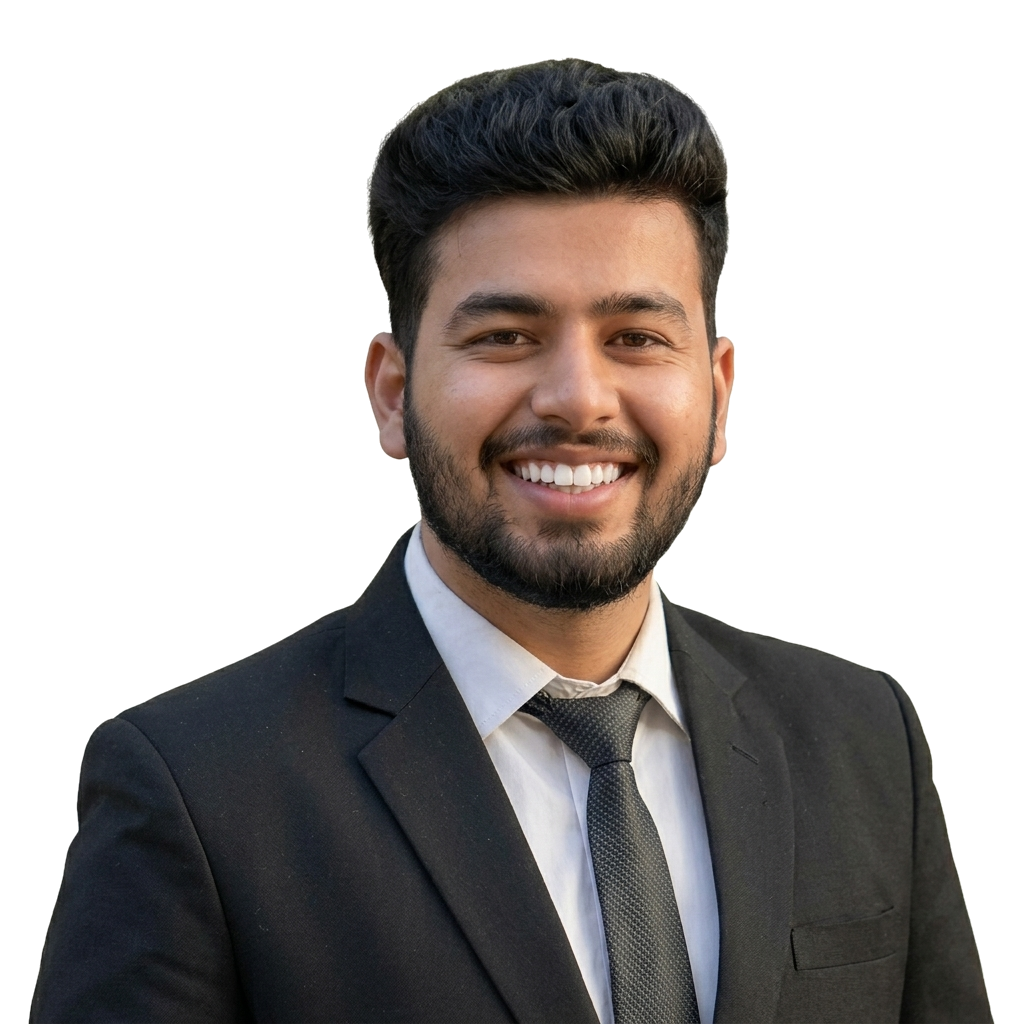
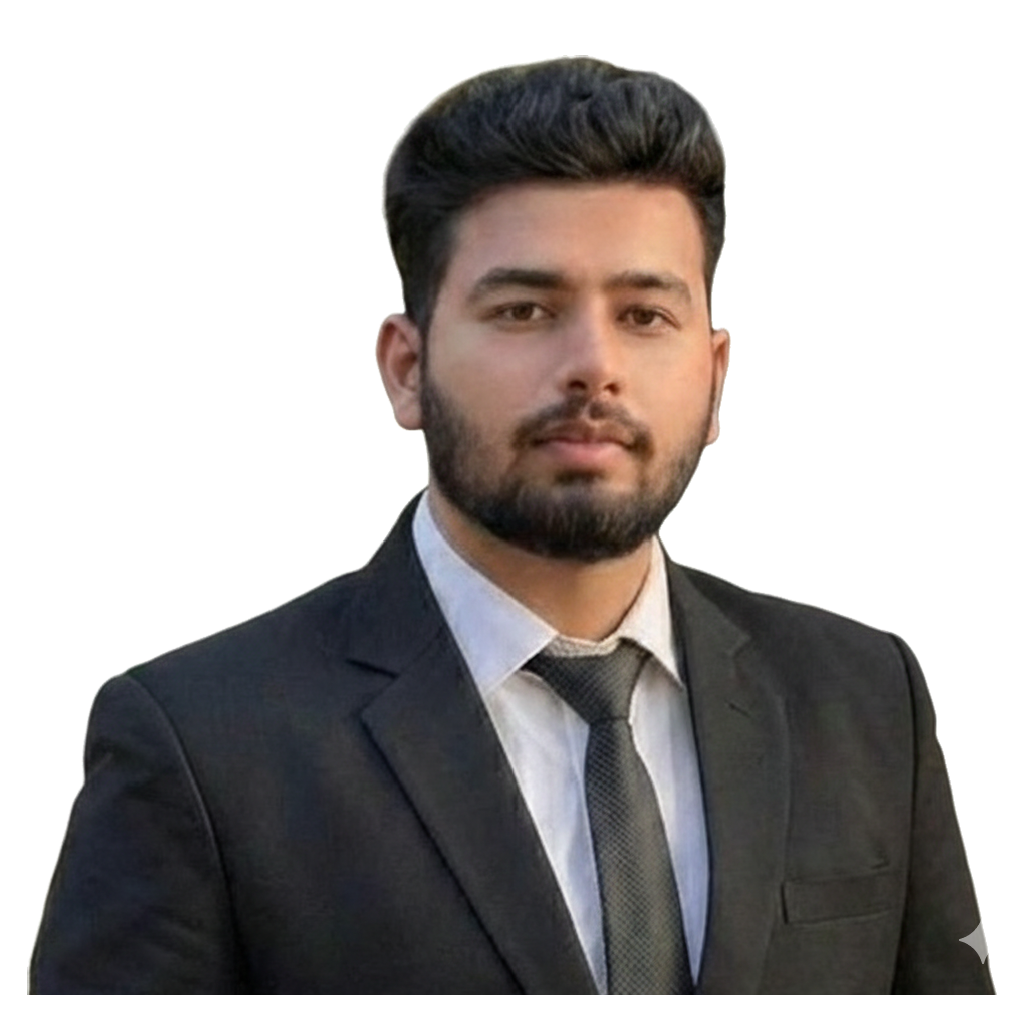
update header

diff --git a/app/components/plushie.js b/app/components/plushie.js
@@ -356,68 +356,56 @@ export async function createPlushie(canvas, options = {}) {
   // halves the memory his faces take. If he's later shown larger (a rotated
   // phone, a zoomed page), they are fetched again at the new size.
   const pixelRatio = () => Math.min(window.devicePixelRatio || 1, 2);
-  const sizeWanted = () => Math.ceil(((canvas.clientWidth / (1 + 2 * opt.pad)) * pixelRatio() * DETAIL) / 64) * 64;
-  let size = sizeWanted(), full = 0; // the size faces are kept at, and the size they come in
+  const sizeWanted = () => {
+    const clientW = canvas.clientWidth || (canvas.getBoundingClientRect && canvas.getBoundingClientRect().width) || parseFloat(canvas.style.width) || 400;
+    return Math.ceil(((clientW / (1 + 2 * opt.pad)) * pixelRatio() * DETAIL) / 64) * 64;
+  };
+  let size = sizeWanted(), full = 0;
   let photo;
+  const textures = {};
+  const names = [];
+  let destroyed = false;
+
   try {
-    photo = await loadImage(opt.faces[resting]);
+    // Load all wanted faces directly with fallback so expressions switch instantly without crashing
+    const loadedList = await Promise.all(
+      wanted.map(async (name) => {
+        try {
+          const img = await loadImage(opt.faces[name]);
+          return [name, img];
+        } catch (err) {
+          console.warn("Failed to load face texture:", name, err);
+          const fallback = await loadImage(opt.faces[resting]);
+          return [name, fallback];
+        }
+      })
+    );
     if (gl.isContextLost()) throw gone();
+
+    photo = loadedList[0][1];
+    full = Math.max(photo.naturalWidth, photo.naturalHeight);
+
+    for (const [name, img] of loadedList) {
+      textures[name] = makeTexture(gl, img, size);
+      names.push(name);
+    }
   } catch (error) {
     canvas.removeEventListener("webglcontextlost", onLost);
     throw gl.isContextLost() ? gone() : error;
   }
-  full = Math.max(photo.naturalWidth, photo.naturalHeight);
-  const textures = { [resting]: makeTexture(gl, photo, size) };
-  const names = [resting];
-  let destroyed = false;
-  let loading = 0; // pictures still on their way
-  // The rest are fetched in the background, two at a time and in the order
-  // they were asked for, and handed over one by one when the page has a
-  // moment to spare and never while he's being held: taking in a picture is
-  // the heaviest thing a phone is asked to do here (tens of milliseconds on
-  // a slow one). One that fails is simply not handed over.
-  const queue = [];
-  let fetching = 0;
-  const spare = () => new Promise((done) => (window.requestIdleCallback ? requestIdleCallback(done, { timeout: 1500 }) : setTimeout(done, 0)));
-  const pause = (ms) => new Promise((done) => setTimeout(done, ms));
-  // Not while a finger is on him or the page has just been touched or
-  // scrolled; but not put off for ever either.
-  // (A face he pulls at being handled waits for a hand to let go only
-  // briefly: it is wanted for that very grab.)
-  const idleHands = async (urgent) => {
-    const since = performance.now(), waited = () => performance.now() - since;
-    const most = urgent ? 600 : 4000; // ms it will wait for quiet (a hand on him: for ever, unless urgent)
-    await Promise.race([spare(), pause(urgent ? 200 : 1500)]);
-    while (!destroyed && (((grab || armed) && !(urgent && waited() > most)) || (performance.now() - lastActive < 350 && waited() < most))) await pause(100);
-  };
-  function later(src, use, { first = false, fit = true, urgent = false, fail = null } = {}) {
-    loading++;
-    queue[first ? "unshift" : "push"]({ src, use, fit, first, urgent, fail });
-    fetchNext();
-  }
-  function fetchNext() {
-    // (One asked for `first` doesn't wait for a place: two slow pictures
-    // mustn't keep his eyes from him.)
-    while (queue.length && !destroyed && (fetching < 2 || queue[0].first)) {
-      const { src, use, fit, urgent, fail } = queue.shift();
-      fetching++;
-      loadImage(src)
-        .then(async (img) => { await idleHands(urgent); if (!destroyed && !gl.isContextLost()) use(makeTexture(gl, img, fit ? size : 0)); }, () => { if (fail) fail(); })
-        .finally(() => { fetching--; loading--; fetchNext(); });
-    }
-  }
-  const keep = (name) => (texture) => {
-    if (textures[name]) gl.deleteTexture(textures[name]); else names.push(name);
-    textures[name] = texture;
-    wake();
-  };
-  const wantedNow = new Set(Object.values(opt.reactions).flat());
-  for (const name of wanted.slice(1)) later(opt.faces[name], keep(name), { urgent: wantedNow.has(name) });
-  // Shown bigger than his pictures were sized for: fetch them again.
+
   function refit() {
     if (destroyed || size >= full || sizeWanted() <= size * 1.1) return;
     size = sizeWanted();
-    for (const name of names) later(opt.faces[name], keep(name));
+    for (const name of names) {
+      loadImage(opt.faces[name]).then((img) => {
+        if (!destroyed && !gl.isContextLost()) {
+          if (textures[name]) gl.deleteTexture(textures[name]);
+          textures[name] = makeTexture(gl, img, size);
+          wake();
+        }
+      });
+    }
   }
   let sheet = null, sheetDue = null; // the eye sheet, and one that's on its way (its address, or a promise of his eyes)
   // Give him eyes (see `gaze` in the options). Callable later, so a page
@@ -616,14 +604,12 @@ export async function createPlushie(canvas, options = {}) {
   // behind him there, it goes through him to that: it gets the hover, the
   // cursor and the click, as if he weren't there. (A finger can't be let
   // through before it lands; its tap is passed on instead, see onClick.)
-  function seeThrough(e, on) {
-    if (e.pointerType === "touch") return;
-    const r = hit.getBoundingClientRect();
-    const onPicture = e.clientX >= r.left && e.clientX < r.right && e.clientY >= r.top && e.clientY < r.bottom;
-    hit.style.pointerEvents = onPicture && !on && !grab && behind(e.clientX, e.clientY) ? "none" : "";
+  function seeThrough() {
+    hit.style.pointerEvents = "";
   }
 
   function onDown(e) {
+    visible = true;
     if (e.button !== undefined && e.button !== 0) return;
     // A second finger means a pinch: the page's, not his.
     if (e.pointerType === "touch" && !e.isPrimary) { letGo(); return; }
@@ -635,7 +621,7 @@ export async function createPlushie(canvas, options = {}) {
     // Allow dragging anywhere on or near the avatar
     const [rx, ry] = restPoint(gx, gy);
     const u = toImage(rx), v = toImage(ry);
-    const within = u >= -0.06 && u <= 1.06 && v >= -0.06 && v <= 1.06;
+    const within = u >= -0.15 && u <= 1.15 && v >= -0.15 && v <= 1.15;
     missed = onHim(gx, gy) || within ? 0 : performance.now();
     if (missed) return;
     if (e.pointerType === "mouse") {
@@ -709,7 +695,7 @@ export async function createPlushie(canvas, options = {}) {
     grabs.push(now);
     showCursor();
     try { hit.setPointerCapture(e.pointerId); } catch {}
-    emit("grab", { touch });
+    emit("grab", { touch, clientX: e.clientX, clientY: e.clientY });
     wake();
   }
 
@@ -1249,7 +1235,9 @@ export async function createPlushie(canvas, options = {}) {
 
   function resize() {
     const dpr = pixelRatio();
-    const w = Math.max(1, Math.round(canvas.clientWidth * dpr)), h = Math.max(1, Math.round(canvas.clientHeight * dpr));
+    const clientW = canvas.clientWidth || (canvas.getBoundingClientRect && canvas.getBoundingClientRect().width) || parseFloat(canvas.style.width) || 400;
+    const clientH = canvas.clientHeight || (canvas.getBoundingClientRect && canvas.getBoundingClientRect().height) || parseFloat(canvas.style.height) || 400;
+    const w = Math.max(1, Math.round(clientW * dpr)), h = Math.max(1, Math.round(clientH * dpr));
     if (canvas.width !== w || canvas.height !== h) { canvas.width = w; canvas.height = h; }
     gl.viewport(0, 0, canvas.width, canvas.height);
     refit();
@@ -1391,7 +1379,7 @@ export async function createPlushie(canvas, options = {}) {
   // in the middle of is dropped, so he never comes back to finish an act the
   // visitor didn't see begin, or still held by a finger that has long gone.
   function attend() {
-    const now = visible && !document.hidden;
+    const now = !document.hidden;
     if (now === up || destroyed) return;
     up = now;
     clearInterval(idleTimer); clearTimeout(blinkTimer); clearTimeout(blinkAgain);
@@ -1411,7 +1399,14 @@ export async function createPlushie(canvas, options = {}) {
     wake();
   }
   // Several changes can arrive at once; the last is how things stand now.
-  const watcher = new IntersectionObserver((entries) => { visible = entries.at(-1).isIntersecting; attend(); });
+  const watcher = new IntersectionObserver((entries) => {
+    if (entries && entries.length) {
+      visible = entries[entries.length - 1].isIntersecting;
+    } else {
+      visible = true;
+    }
+    attend();
+  });
   // The picture itself, not the canvas: its margin is empty.
   watcher.observe(hit);
   document.addEventListener("visibilitychange", attend);

diff --git a/app/components/ElasticAvatar.jsx b/app/components/ElasticAvatar.jsx
@@ -13,10 +13,10 @@ import { createPlushie } from './plushie'
  * - shock: mouth wide open in "O", eyes wide (tapped / startled)
  */
 const YEASIN_FACES = {
-    smile: '/face/yeasin-smile.png',
-    ouch: '/face/yeasin-ouch.png',
-    dizzy: '/face/yeasin-dizzy.png',
-    shock: '/face/yeasin-shock.png',
+    smile: '/face/yeasin-real.png?v=3',
+    ouch: '/face/yeasin-ouch.png?v=3',
+    dizzy: '/face/yeasin-dizzy.png?v=3',
+    shock: '/face/yeasin-shock.png?v=3',
 }
 
 const REACTIONS = {
@@ -25,6 +25,7 @@ const REACTIONS = {
     pulled: ['ouch', 'shock'],
     tapped: ['shock'],
     dazed: ['dizzy', 'ouch'],
+    fedUp: ['dizzy', 'ouch'],
 }
 
 /**
@@ -83,6 +84,7 @@ const ElasticAvatar = ({
         const container = containerRef.current
         if (!canvas || !container) return
 
+        let isCancelled = false
         let plushInstance = null
         let isGrabbing = false
 
@@ -121,11 +123,19 @@ const ElasticAvatar = ({
             neck: { x: 0.5, y: 0.8 },
         })
             .then((plush) => {
+                if (isCancelled) {
+                    try { plush.destroy() } catch (_) {}
+                    return
+                }
                 plushInstance = plush
                 setIsReady(true)
 
-                plush.on('grab', () => {
+                plush.on('grab', (data) => {
                     isGrabbing = true
+                    if (data && data.clientX !== undefined) {
+                        const rect = container.getBoundingClientRect()
+                        setReticle({ visible: true, x: data.clientX - rect.left, y: data.clientY - rect.top })
+                    }
                 })
 
                 plush.on('release', ({ pulled, cancelled }) => {
@@ -136,8 +146,15 @@ const ElasticAvatar = ({
                     }
                 })
 
-                plush.on('tap', () => {
+                plush.on('tap', (data) => {
                     playBoingSound(0.85)
+                    if (data && data.u !== undefined && data.v !== undefined) {
+                        const pad = 0.22
+                        const x = ((data.u + pad) / (1 + 2 * pad)) * size
+                        const y = ((data.v + pad) / (1 + 2 * pad)) * size
+                        setReticle({ visible: true, x, y })
+                        setTimeout(() => setReticle({ visible: false, x: 0, y: 0 }), 320)
+                    }
                 })
             })
             .catch((err) => {
@@ -145,6 +162,7 @@ const ElasticAvatar = ({
             })
 
         return () => {
+            isCancelled = true
             window.removeEventListener('pointermove', handlePointerMove)
             window.removeEventListener('pointerup', handlePointerUp)
             window.removeEventListener('pointercancel', handlePointerUp)
@@ -154,12 +172,17 @@ const ElasticAvatar = ({
                 } catch (_) {}
             }
         }
-    }, [playBoingSound])
+    }, [playBoingSound, size])
 
     // Geometry matching the WebGL circle frame for the vibrant orange backdrop
     const circleDiameter = Math.round(size * 0.61)
     const circleLeft = Math.round(size * 0.5 - circleDiameter * 0.5)
     const circleTop = Math.round(size * 0.535 - circleDiameter * 0.5)
+
+    // Image coordinate alignment with pad: 0.22
+    const pad = 0.22
+    const imgSize = Math.round(size / (1 + 2 * pad))
+    const imgOffset = Math.round(size * (pad / (1 + 2 * pad)))
 
     return (
         <div
@@ -183,19 +206,18 @@ const ElasticAvatar = ({
             {/* Static high-res placeholder image while WebGL textures prepare */}
             {!isReady && (
                 <Image
-                    src='/face/yeasin-smile.png'
+                    src='/face/yeasin-real.png'
                     alt='Yeasin Munshi'
-                    width={circleDiameter}
-                    height={circleDiameter}
+                    width={imgSize}
+                    height={imgSize}
                     priority
-                    className='absolute pointer-events-none z-10 rounded-full transition-opacity duration-300'
+                    className='absolute pointer-events-none z-10 transition-opacity duration-300'
                     style={{
-                        width: `${circleDiameter}px`,
-                        height: `${circleDiameter}px`,
-                        left: `${circleLeft}px`,
-                        top: `${circleTop}px`,
-                        objectFit: 'cover',
-                        objectPosition: 'center top',
+                        width: `${imgSize}px`,
+                        height: `${imgSize}px`,
+                        left: `${imgOffset}px`,
+                        top: `${imgOffset}px`,
+                        objectFit: 'contain',
                     }}
                 />
             )}
@@ -203,7 +225,7 @@ const ElasticAvatar = ({
             {/* Authentic Elastic Plushie Canvas */}
             <canvas
                 ref={canvasRef}
-                className='relative z-20 touch-none cursor-grab active:cursor-grabbing transition-transform duration-100'
+                className='relative z-20 touch-none cursor-grab active:cursor-grabbing'
                 style={{
                     width: `${size}px`,
                     height: `${size}px`,

diff --git a/app/components/Header.jsx b/app/components/Header.jsx
@@ -187,7 +187,7 @@ const Header = () => {
         <motion.div
           animate={{ y: [0, -10, 0] }}
           transition={{ duration: 4.5, repeat: Infinity, ease: 'easeInOut' }}
-          className='absolute -top-3 -left-4 z-20 hidden sm:flex items-center gap-2 px-3.5 py-1.5 rounded-2xl bg-white/80 dark:bg-slate-900/80 backdrop-blur-md border border-cyan-400/40 shadow-lg text-xs font-semibold text-gray-800 dark:text-cyan-300'
+          className='absolute -top-3 -left-4 z-20 hidden sm:flex items-center gap-2 px-3.5 py-1.5 rounded-2xl bg-white/80 dark:bg-slate-900/80 backdrop-blur-md border border-cyan-400/40 shadow-lg text-xs font-semibold text-gray-800 dark:text-cyan-300 pointer-events-none'
         >
           <span className='w-2 h-2 rounded-full bg-cyan-400 animate-ping' />
           <span>React 19 &bull; Next.js</span>
@@ -197,7 +197,7 @@ const Header = () => {
         <motion.div
           animate={{ y: [0, 10, 0] }}
           transition={{ duration: 5, repeat: Infinity, ease: 'easeInOut', delay: 1 }}
-          className='absolute -bottom-2 -right-4 z-20 hidden sm:flex items-center gap-2 px-3.5 py-1.5 rounded-2xl bg-white/80 dark:bg-slate-900/80 backdrop-blur-md border border-emerald-400/40 shadow-lg text-xs font-semibold text-gray-800 dark:text-emerald-300'
+          className='absolute -bottom-2 -right-4 z-20 hidden sm:flex items-center gap-2 px-3.5 py-1.5 rounded-2xl bg-white/80 dark:bg-slate-900/80 backdrop-blur-md border border-emerald-400/40 shadow-lg text-xs font-semibold text-gray-800 dark:text-emerald-300 pointer-events-none'
         >
           <span className='w-2 h-2 rounded-full bg-emerald-400' />
           <span>Node.js &bull; MongoDB</span>

diff --git a/app/components/CustomCursor.jsx b/app/components/CustomCursor.jsx
@@ -21,11 +21,16 @@ const CustomCursor = () => {
 
     const handleMouseMove = (e) => {
       setMousePosition({ x: e.clientX, y: e.clientY })
-      if (!isVisible) setIsVisible(true)
 
-      // Check if hovering interactive element
+      // Check if hovering interactive element or avatar canvas
       const target = e.target
-      const isInteractive = target.closest('a, button, input, textarea, canvas, [role="button"]')
+      if (target && target.closest && target.closest('canvas')) {
+        setIsVisible(false)
+        return
+      }
+
+      if (!isVisible) setIsVisible(true)
+      const isInteractive = target && target.closest && target.closest('a, button, input, textarea, [role="button"]')
       setIsHoveringInteractive(!!isInteractive)
     }
 
